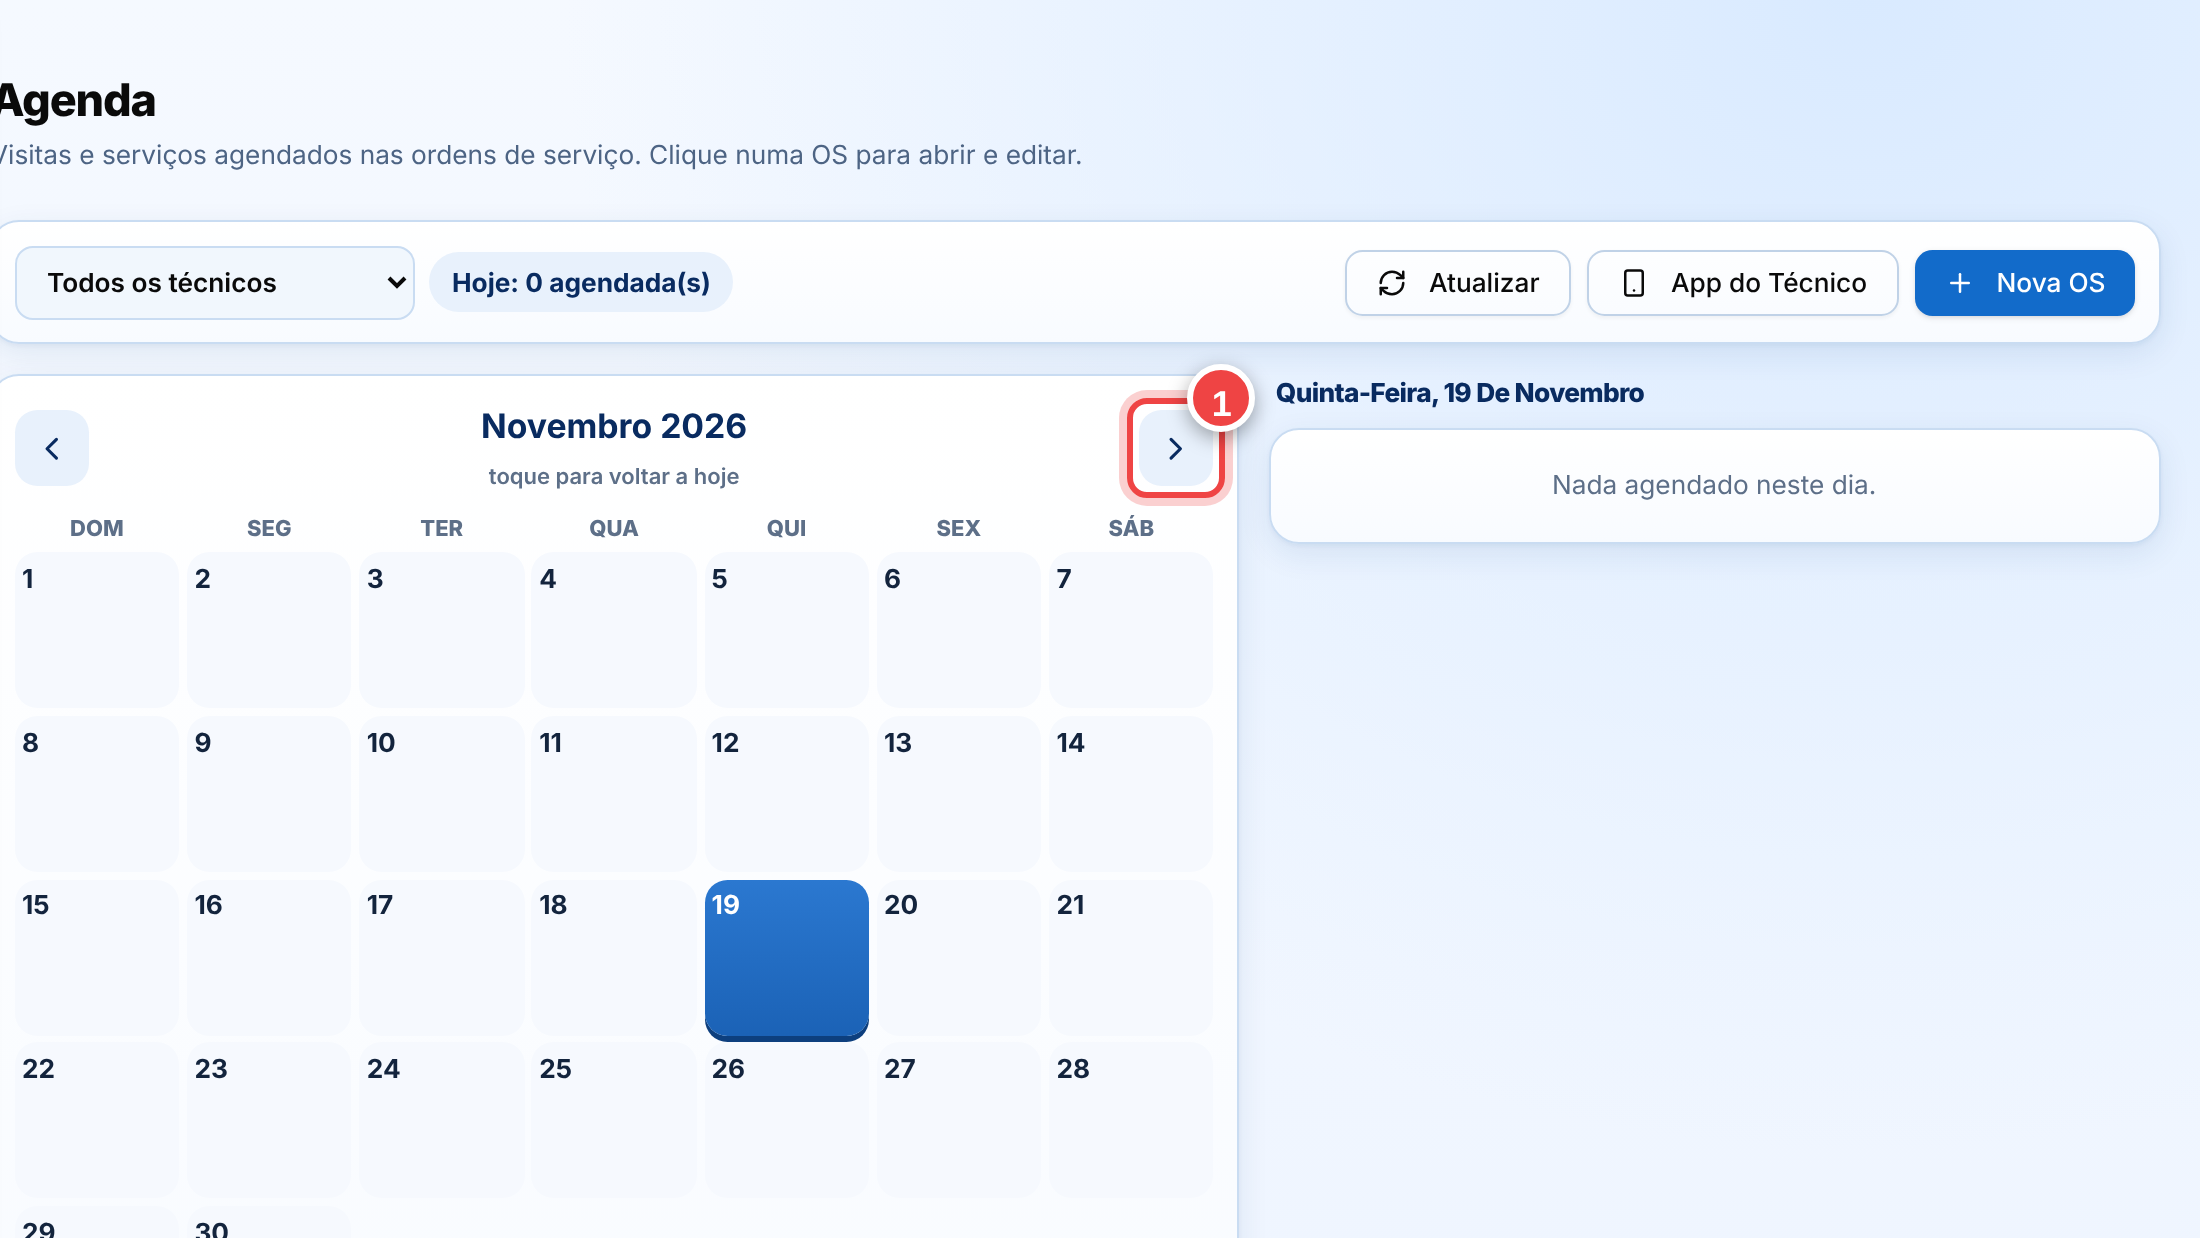
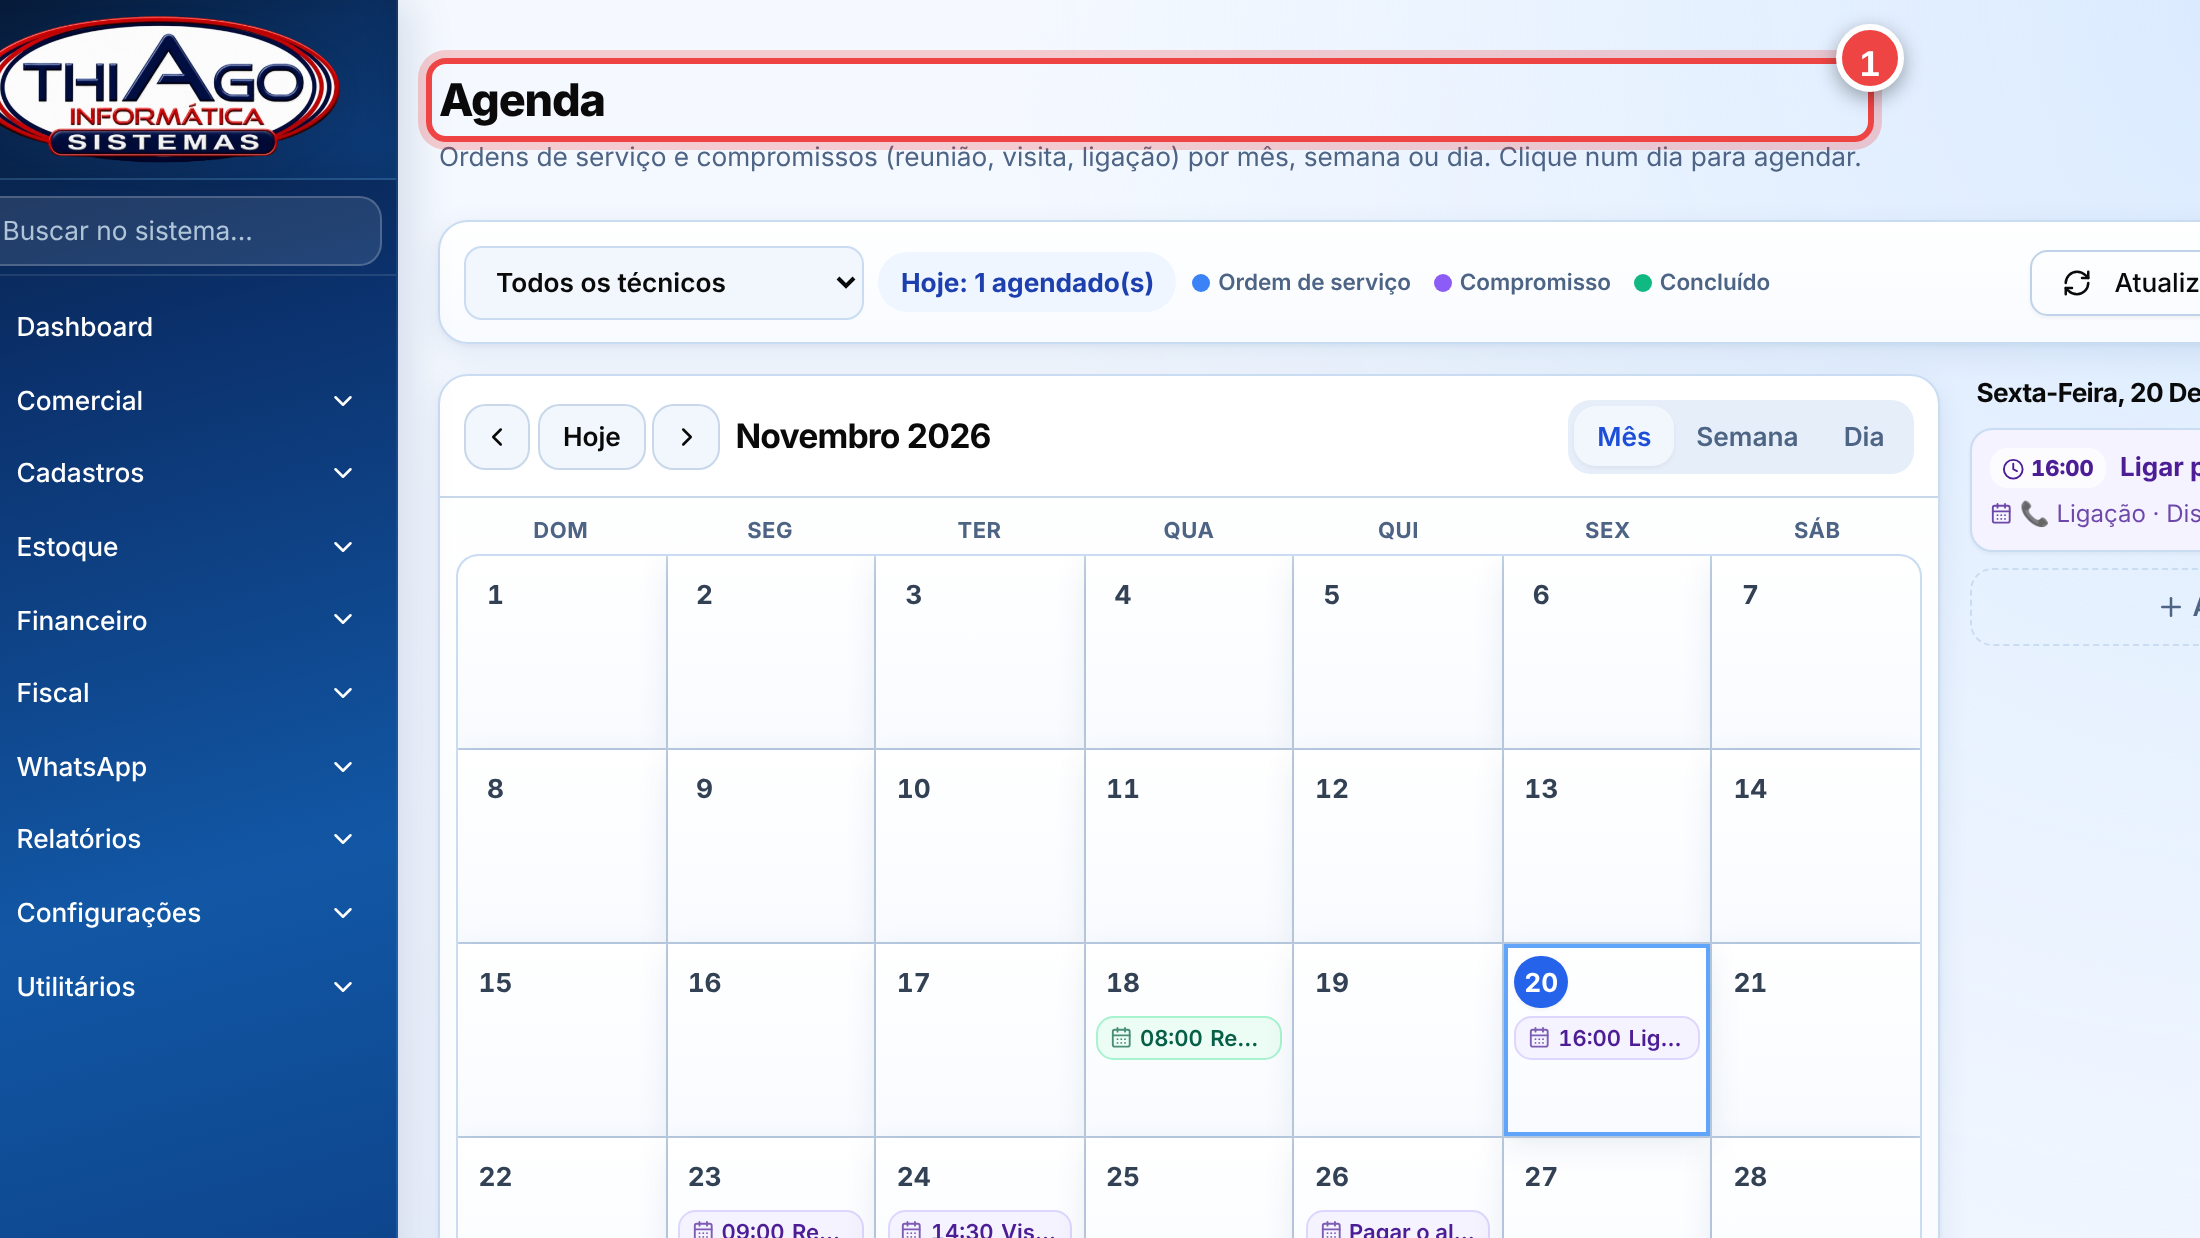
Agenda: prints novos (mês/semana/dia, novo agendamento) e marcador do horário
Claude-Session: https://claude.ai/code/session_01RyHuxN9gx9DVU1E5ti7Cs8

diff --git a/tutoriais/roteiros/37-agenda.js b/tutoriais/roteiros/37-agenda.js
@@ -60,7 +60,7 @@ module.exports = {
       texto: 'Escolha o tipo, escreva o assunto, o horário de início e de fim, com quem é e quem é o responsável. Depois é só clicar em Salvar, e ele aparece em roxo na agenda.',
       marcar: [
         { alvo: { placeholder: 'Ex.: Reunião com o fornecedor' }, legenda: 'Assunto' },
-        { alvo: { campo: 'Início', dentro: 'dialog' }, legenda: 'Horário' },
+        { alvo: { css: 'input[type="time"]', dentro: 'dialog' }, legenda: 'Horário' },
         { alvo: { papel: 'button', nome: 'Salvar', exato: true, dentro: 'dialog' }, legenda: 'Salvar' },
       ],
       depois: [{ tipo: 'tecla', tecla: 'Escape', espera: 900 }],
